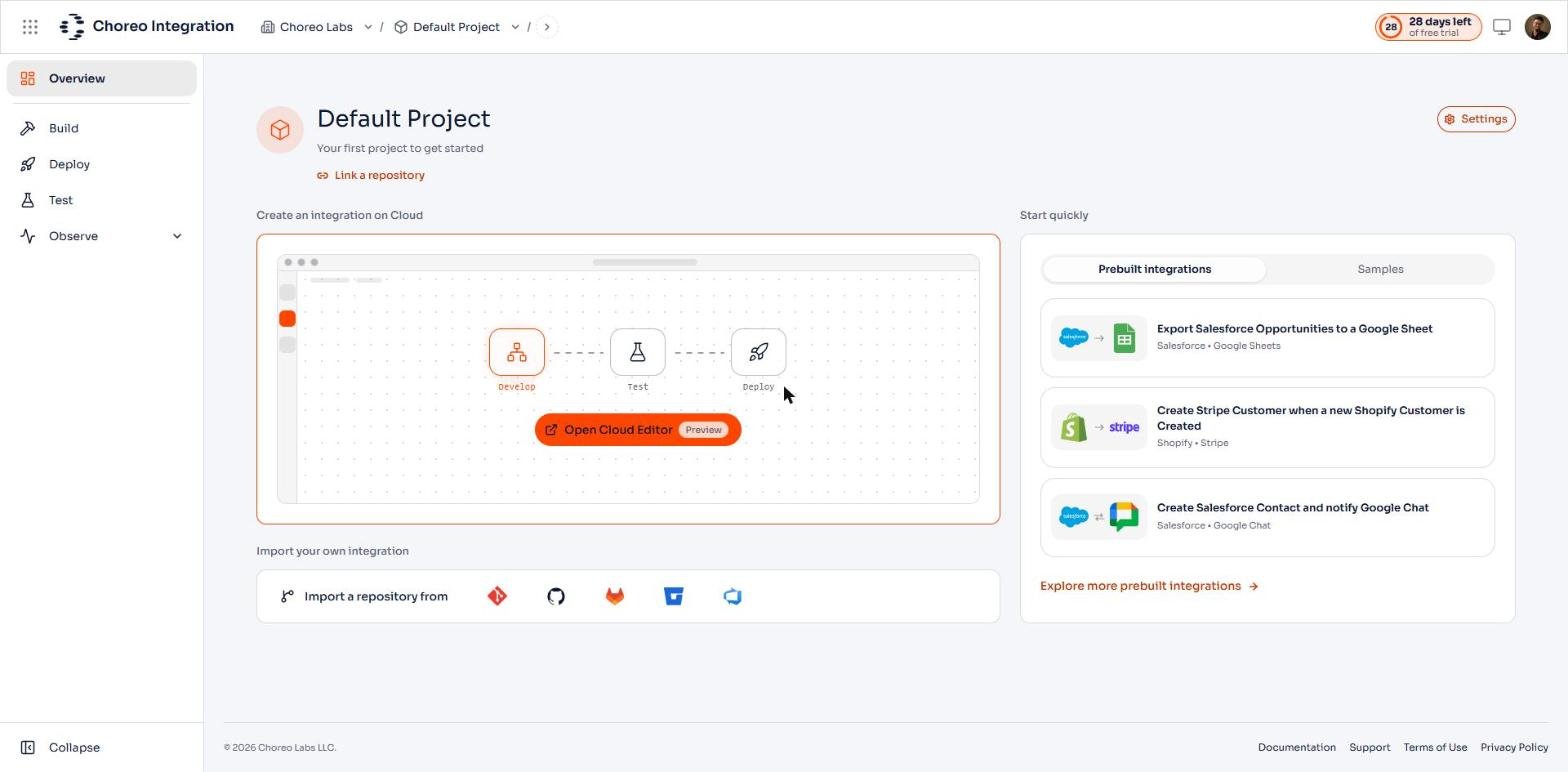
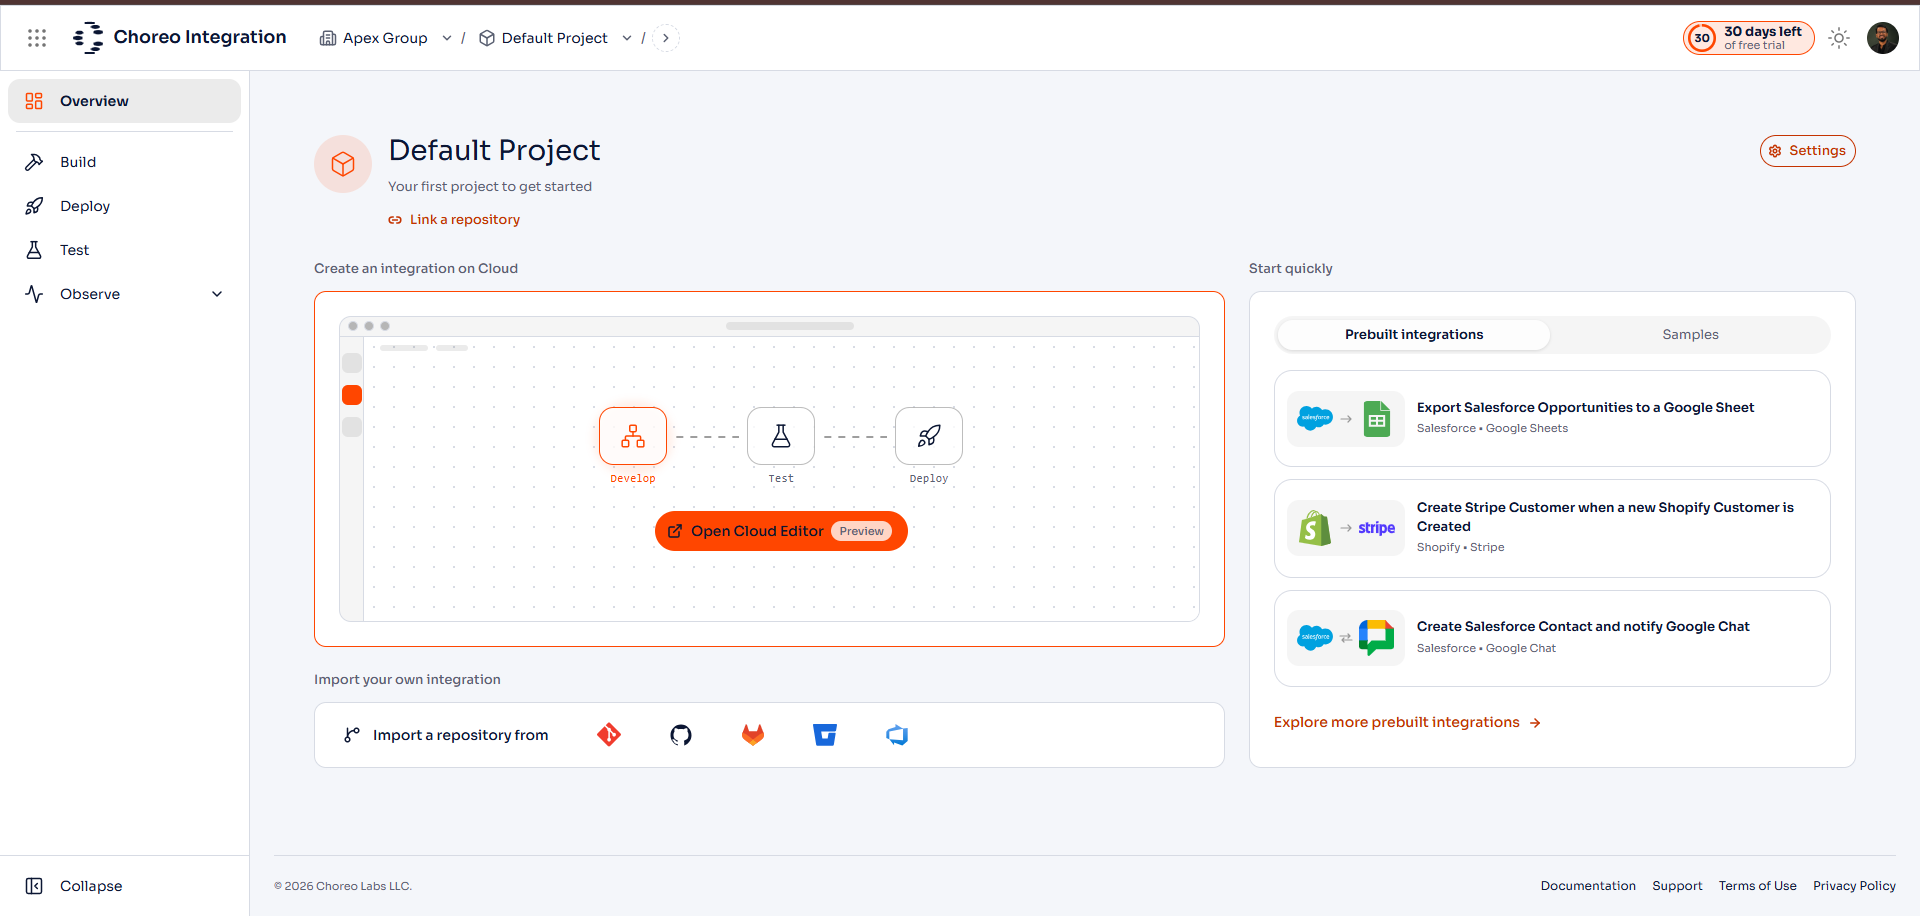
docs(v3): rebuild the setup page around the real v3 signup flow
Uses four screenshots captured from a real v3 signup in the Apex Group
organization, and restructures the steps to match what that flow does.

The v2 steps were wrong, not just illustrated with stale images:
- the region is chosen on the sign-in screen, not after the organization
  is created, so "Select a region" is no longer a step of its own
- terms are accepted implicitly by continuing at sign-in, so "Accept the
  terms" with a Create button no longer exists
- creating an organization takes an Organization Name and an
  Organization Handle; the documented naming rules were wrong. The
  handle is 3 to 30 characters, lowercase letters, numbers and hyphens,
  starting and ending with a letter or number
- signing up lands on Choreo Cloud, not on the Integration product. The
  welcome dialog asks about product emails, and Integration is entered
  from the Create an integration link on its card

New steps and images:
- Step 1 Sign in - sign-up.png
- Step 2 Create your organization - org-creation.png
- Step 3 Choose your email preferences - welcome-choreo-cloud.png
- Step 4 Open Integration - create-an-integration.png, project-home.png

cloud-editor-setup.png in Step 5 is still the old shot; the provisioning
screen has not been re-captured. Marked with a TODO.

Verified with `npx docusaurus build en`: exits 0.

diff --git a/en/docs/get-started/setup/setup.md b/en/docs/get-started/setup/setup.md
@@ -20,9 +20,9 @@ A Choreo Cloud account gives you access to:
 - **Choreo Integration**: Deploy and run integrations in a managed cloud environment with built-in CI/CD, environment promotion, observability, and access control.
 - **Choreo Integrator Copilot features**: Use AI-assisted development in Choreo Integrator to generate integrations, mappings, and configurations.
 
-## Step 1: Go to the sign-up page
+## Step 1: Sign in
 
-Go to [Choreo Cloud](https://cloud-console-development.gateway.dev.cloud.wso2.com). Choose the region you want to sign up in from the **Region** list, then continue with Google, GitHub, or your organization's SSO.
+Go to [Choreo Cloud](https://cloud-console-development.gateway.dev.cloud.wso2.com). Choose the region you want to sign up in from the **Region** list, then continue with Google, GitHub, or your organization's SSO. Continuing signs you up if you do not have an account yet, and accepts the Terms of Service and Privacy Policy.
 
 <ThemedImage
     alt="Choreo Labs sign-in page with the Region list and the Continue with Google, GitHub, and SSO options"
@@ -32,48 +32,59 @@ Go to [Choreo Cloud](https://cloud-console-development.gateway.dev.cloud.wso2.co
     }}
 />
 
-{/* TODO(v3): Steps 2 to 4 below still describe the v2 signup flow and are unverified against v3.
-    The v3 sign-in screen carries the region selector and accepts the terms implicitly on continue,
-    so "Accept the terms" and "Select a region" may no longer be separate steps. org-creation.png
-    is still the old WSO2-branded shot and can only be retaken while creating a brand-new
-    organization. The console URL above is a development host and must be swapped before
-    publication. */}
+## Step 2: Create your organization
 
-## Step 2: Create an organization
-
-Enter a unique name for your organization.
+Enter an **Organization Name** and an **Organization Handle**, then click **Create Organization**. The handle becomes part of every workspace URL and appears in invitations.
 
 <ThemedImage
-    alt="Creating an organization"
+    alt="Create Your Organization form with the Organization Name and Organization Handle fields"
     sources={{
         light: useBaseUrl('/img/get-started/setup/sign-up-sign-in/org-creation.png'),
         dark: useBaseUrl('/img/get-started/setup/sign-up-sign-in/org-creation.png'),
     }}
 />
 
-The name must:
+The handle must:
 
-- Be between 4 and 30 characters
-- Begin with a letter
-- Contain only uppercase letters, lowercase letters, hyphens, spaces, or underscores
+- Be between 3 and 30 characters
+- Contain only lowercase letters, numbers, and hyphens
+- Start and end with a letter or a number
 
-## Step 3: Accept the terms
+## Step 3: Choose your email preferences
 
-Read and accept the [Privacy Policy](https://wso2.com/privacy-policy) and [Terms of Use](https://wso2.com/integration-platform/terms-of-use), then click **Create**.
-
-## Step 4: Select a region
-
-Select the cloud region where you want to deploy your integrations and click **Confirm**.
-
-You land on the **Overview** page of the default project in your new organization.
+Choreo Cloud creates your organization with a **Default Project** and opens its overview. A welcome dialog asks whether you want product updates, resources, and event invites by email. Click **Subscribe** or **No thanks**. You can unsubscribe at any time.
 
 <ThemedImage
-    alt="Default Project overview page after creating an organization"
+    alt="Welcome to Choreo Cloud dialog with the Subscribe and No thanks options"
+    sources={{
+        light: useBaseUrl('/img/get-started/setup/sign-up-sign-in/welcome-choreo-cloud.png'),
+        dark: useBaseUrl('/img/get-started/setup/sign-up-sign-in/welcome-choreo-cloud.png'),
+    }}
+/>
+
+## Step 4: Open Integration
+
+The Choreo Cloud overview lists the products available to your organization: **Agent Management**, **API Management**, **Integration**, and **Identity & Access Management**. On the **Integration** card, click **Create an integration**.
+
+<ThemedImage
+    alt="Choreo Cloud overview with Create an integration highlighted on the Integration card"
+    sources={{
+        light: useBaseUrl('/img/get-started/setup/sign-up-sign-in/create-an-integration.png'),
+        dark: useBaseUrl('/img/get-started/setup/sign-up-sign-in/create-an-integration.png'),
+    }}
+/>
+
+You land on the **Overview** page of the **Default Project** in Choreo Integration. From here you can build an integration in the cloud editor, import your own repository, or start from a prebuilt integration or sample.
+
+<ThemedImage
+    alt="Default Project overview in Choreo Integration with the cloud editor, import, and Start quickly options"
     sources={{
         light: useBaseUrl('/img/get-started/setup/sign-up-sign-in/project-home.png'),
         dark: useBaseUrl('/img/get-started/setup/sign-up-sign-in/project-home.png'),
     }}
 />
+
+{/* TODO(v3): cloud-editor-setup.png below is still the old shot; the provisioning screen has not been re-captured. */}
 
 ## Step 5: Open the cloud editor
 
